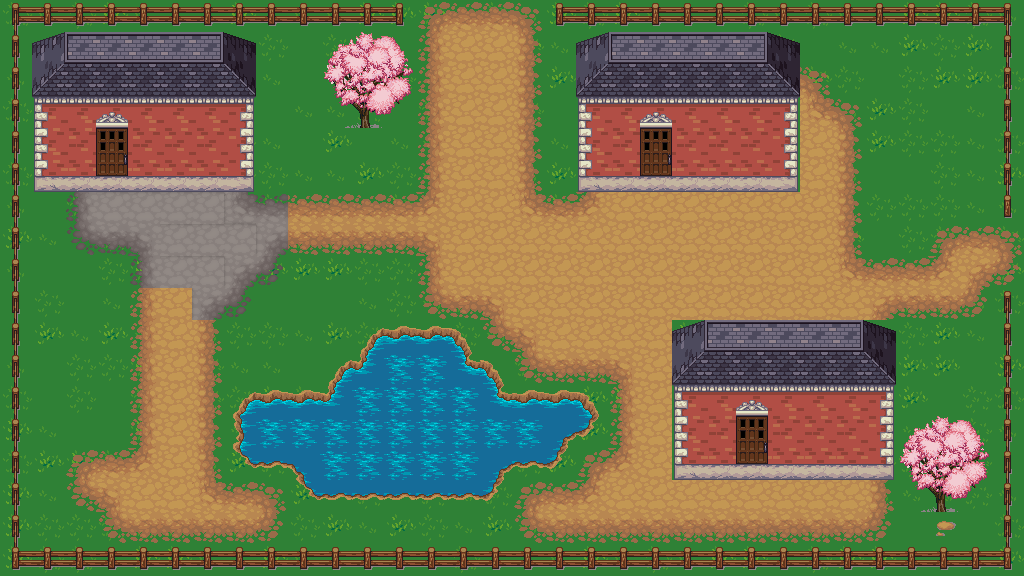
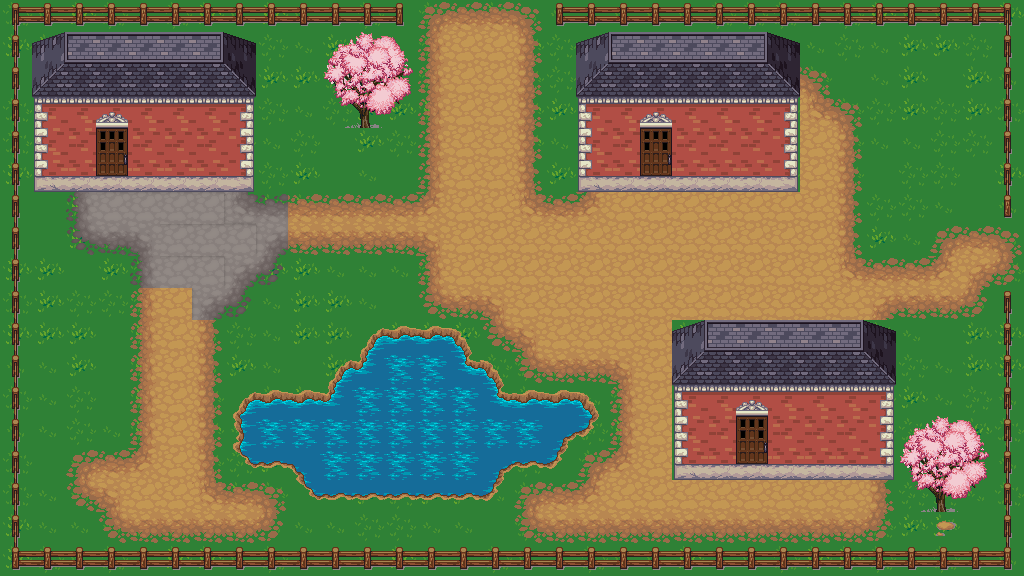
Design of all overworld maps mostly complete

diff --git a/mapGen.py b/mapGen.py
@@ -263,7 +263,6 @@ stoneArr = tileMapToArr(stoneMap)
 stone = Tile(stoneArr, true, true, false, "stone", "s")
 #add lavaRock
 lavaRockMap = makePicture(tilesPath + "lavarock.png")
-explore(lavaRockMap)
 lavaRockArr = tileMapToArr(lavaRockMap)
 lavaRock = Tile(lavaRockArr, true, true, false, "lavaRock", "l")
 #add Water
@@ -318,23 +317,63 @@ townMap = Map(town, grass, "townMap.png")
 
 field  = "ffffffffffffffffffffffffffffffff"
 field += "fggggggggggggggggggggggggggggggf"
-field += "fggggggggggggggggggggwwwwwwwgggf"
-field += "fggggggggggggggggggggwwwwwwwwwgf"
-field += "fggggggggggggggggggggwwwwwwwwwgf"
-field += "fgggggggggggggggggggggggggwwwwgf"
-field += "fggggggggggggggggggggggggwwwwwgf"
-field += "ggggggggggggggggggggggggwwwwwwgf"
-field += "ggggggggggggggggggggggggwwwwwggf"
 field += "fggggggggggggggggggggggggggggggf"
-field += "fggggggggggggggggggggggggggggggf"
-field += "fggggggggggggggggggggggggggggggf"
-field += "fggggggggggggggggggggggggggggggf"
-field += "fggggggggggggggggggggggggggggggf"
-field += "fggggggggggggggggggggggggggggggf"
+field += "fggggggggggwwwwwwwwwgggggggggggf"
+field += "fgggggggwwwwwwwwwwwwwggggggggggf"
+field += "fggggggwwwwwwwwwwwwwwggggggggggf"
+field += "fggggggwwwwwwwwwwwwwgggggggggggg"
+field += "fgggggwwwwwwwwgt,,gggggggggggggg"
+field += "fgggggwwwwwwggg,,,ggggwwwwwggggg"
+field += "fgggggwwwwwwggg,,,gggwwwwwwwgggg"
+field += "fgggggwwwwwwgggggggggwwwwwwwgggf"
+field += "fgggggwwwwwggggggggwwwwwwwwwgggf"
+field += "fggggggwwgggggwwwwwwwwwwwwwwgggf"
+field += "fgggggggggggwwwwwwwwwwwwwwwggggf"
+field += "fgggggggggggwwwwwwwwwwwwwggggggf"
 field += "fggggggggggggggggggggggggggggggf"
 field += "fggggggggggggggggggggggggggggggf"
 field += "fffffffffffffggggfffffffffffffff"
-fieldMap = Map(field, grass, "fieldMap.png")
+fieldMap = Map(field, grass, "Nfield.png")
+
+field  = "fffffffffffffddddfffffffffffffff"
+field += "fggggggggggggddddggggggggggggggf"
+field += "fggggggggggggdddgggggwwwwwwwgggf"
+field += "fggggggggggggdddgggggwwwwwwwwwgf"
+field += "fggggggggggdddddggggwwwwwwwwwwgf"
+field += "fgddddddddddddddggggwwwwwwwwwwgf"
+field += "ddddddddddddddggggggwwwwwwwwwwgf"
+field += "dddddddddddddggggggggggwwwwwwwgf"
+field += "dddddwwwwgggggggggggggggwwwwwggf"
+field += "ddddwwwwwggggggggggggggggggggggf"
+field += "fggwwwwwwwggggggggggggggggt,,ggf"
+field += "fggwwwwwwwwwwwwggggggggggg,,,ggf"
+field += "fggwwwwwwwwwwwwggggggggggg,,,ggf"
+field += "fgwwwwwwwwwwwwwgggggggggt,,t,,gf"
+field += "fgwwwwwwwwwwwggggggggggg,,,,,,gf"
+field += "fggwwwwwwwgggggggggggggg,,,,,,gf"
+field += "fggggggggggggggggggggggggggggggf"
+field += "ffffffffffffffffffffffffffffffff"
+fieldMap = Map(field, grass, "Efield.png")
+
+field  = "ffffffffffffffffffffffffffffffff"
+field += "fggggggggggggggggggggggggggggggf"
+field += "fggggggggggggggggggggwwwwwwwgggf"
+field += "fggggggggggggggggggggwwwwwwwwwgf"
+field += "fggggggggggggggggggggwwwwwwwwwgf"
+field += "fggggggggggggggggddddddgggwwwwgf"
+field += "ddddddddddddddddddddddgggwwwwwgf"
+field += "ddddddddddddddddddddddggwwwwwwgf"
+field += "ddddddddddddddgddddgggggwwwwwggf"
+field += "ddddddggggggggddddgggggggggggggf"
+field += "fggdddddgggggggdgggggggggggggggf"
+field += "fggggddddddgggddgggggggggggggggf"
+field += "fgggggddddddddddgggggggggggggggf"
+field += "fggggggggdddddddgggggggggggggggf"
+field += "fgggggggddddddddgggggggggggggggf"
+field += "fggggggggggggdddgggggggggggggggf"
+field += "fggggggggggggdddgggggggggggggggf"
+field += "fffffffffffffddddfffffffffffffff"
+fieldMap = Map(field, grass, "NEfield.png")
 
 dungeon  = "ffffffffffffffffffffffffffffffff"
 dungeon += "fllllllllllllllllllllllllllllllf"
